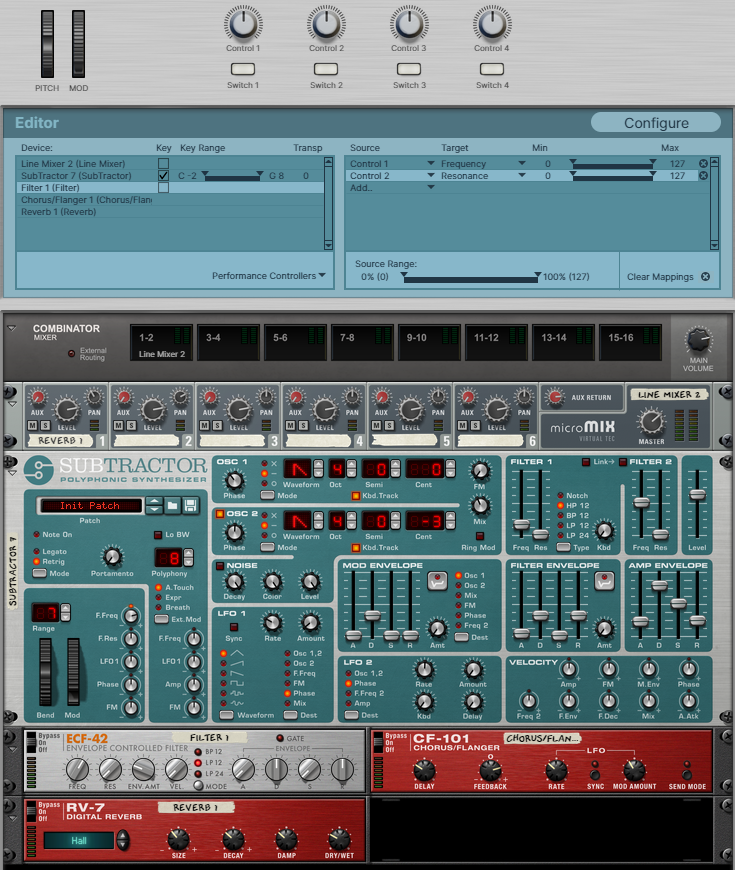
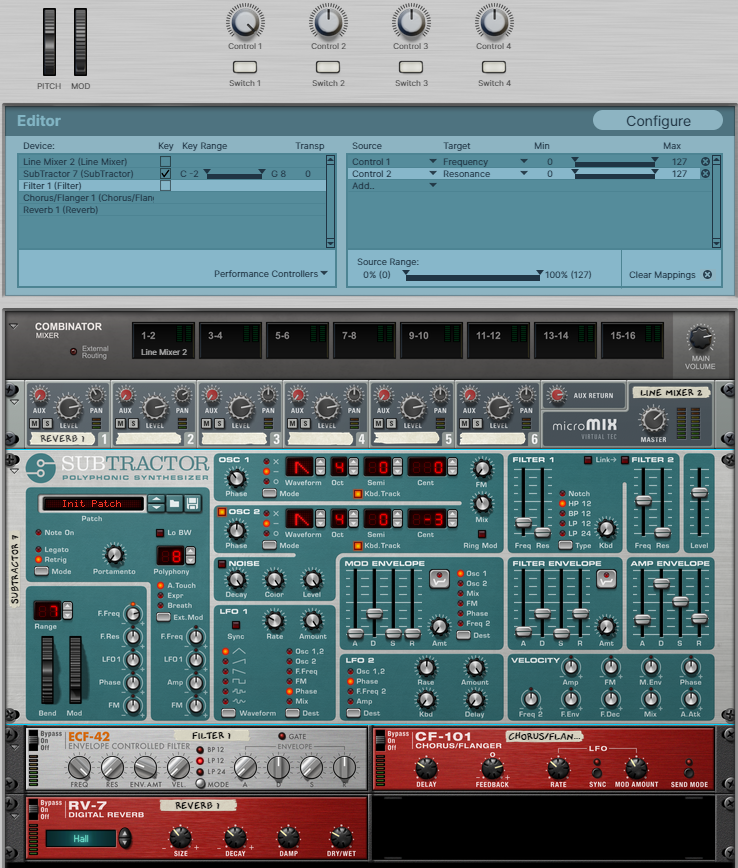
minor updates to PWM tut

Changed region(s): [[0.0, 0.0, 1.0, 1.0], [0.8381, 0.871, 0.868, 0.9332], [0.3592, 0.9643, 0.419, 0.9954]]

diff --git a/src/main/resources/static/pages/tutorials/tutorial-pwm-lead.html b/src/main/resources/static/pages/tutorials/tutorial-pwm-lead.html
@@ -28,7 +28,8 @@
                     <ol class="tutorial-steps">
                         <li>Use a sawtooth wave for Oscillators 1 and 2. Detune Oscillator 2 by -3 cents, then mix the two oscillators equally.</li>
                         <li>Set the phase mode to subtraction (&minus;). This subtracts a phase-offset copy of each sawtooth, producing a square wave whose pulse width can be controlled with the Phase knob.</li>
-                        <li>Set LFO 1 to a triangle wave, route it to Phase, and use a rate of about 36 and an amount of about 6. This continuously varies the pulse width of the square wave.</li>
+                        <li>Set LFO 1 to a triangle wave, route it to Phase, and use a rate of about 36 and an amount of 127. This continuously varies the pulse width of the square wave.</li>
+                        <li>Set LFO 2 to a phase wave and a rate of 64 and an amount of 127.</li>
                         <li>Set the filter's Velocity control to 0 so note velocity does not alter the filter.</li>
                         <li>Set Filter 1 to high-pass to remove the low frequencies. We will add a low-pass filter later in the effects chain.</li>
                     </ol>
@@ -80,6 +81,11 @@
                          alt="Reason piano roll showing a C minor, E-flat major, B-flat major, and G minor chord progression">
                     <figcaption>C minor &ndash; E-flat major &ndash; B-flat major &ndash; G minor.</figcaption>
                 </figure>
+
+                <section class="tutorial-section">
+                    <h2>For fun</h2>
+                    <p>Add an RPG-8 (monophonic arpeggiator).</p>
+                </section>
             </div>
         </article>
     </div>
